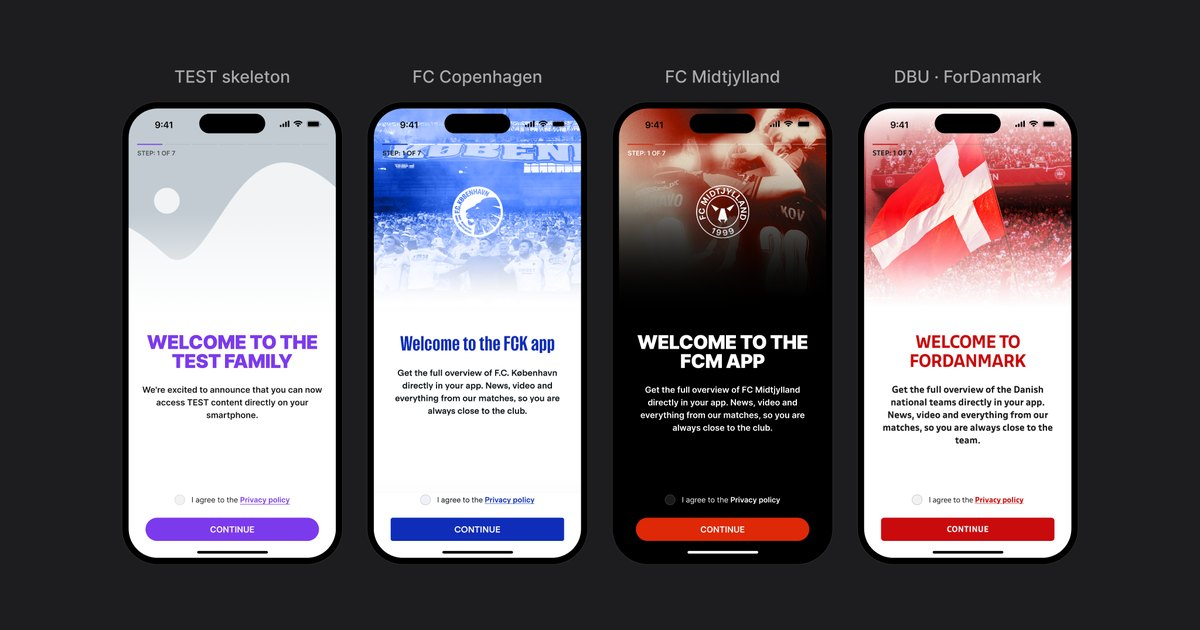
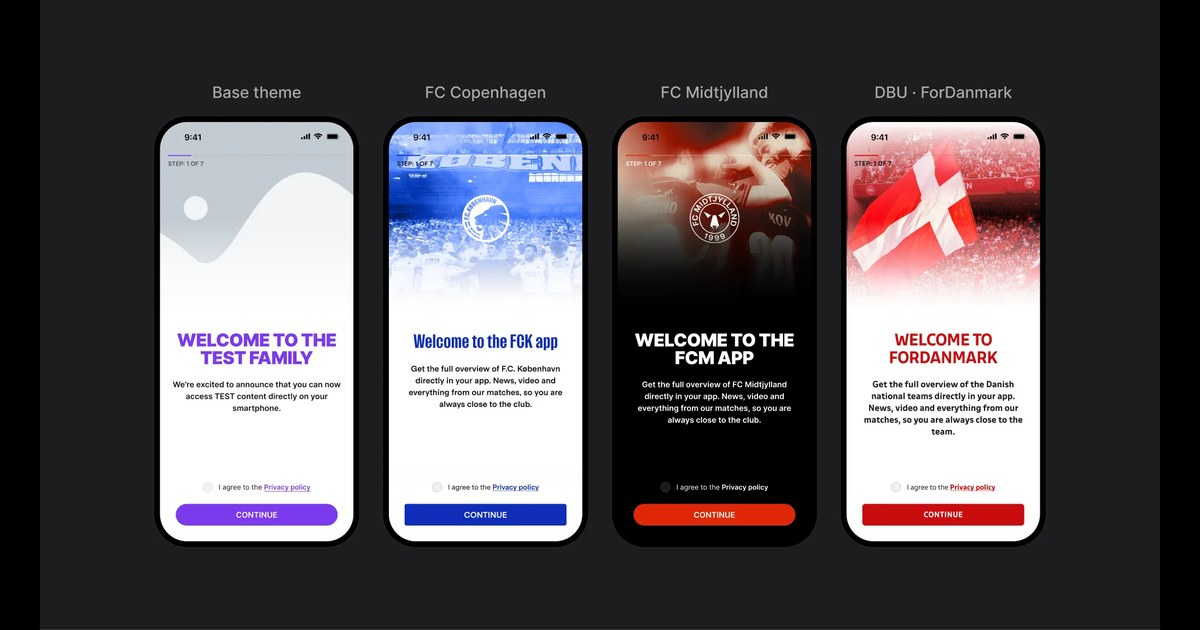
Rename "TEST skeleton" to "base theme" on the site
The owner found "TEST skeleton" unclear and off-putting. Site copy now says
"base theme" (named TEST in the Figma file) on the design-system and
white-label cases, in the theme toy (Base button, tag, aria texts) and in
CASE-TEMPLATE.md. Re-exported the hero, composition 06 and the white-label
base-to-club image with the new labels; og image regenerated.

Claude-Session: https://claude.ai/code/session_01NVvHEzc9sgvxv5K1s7WXs6

diff --git a/design-system.html b/design-system.html
@@ -4,17 +4,17 @@
 <meta charset="utf-8">
 <meta name="viewport" content="width=device-width, initial-scale=1">
 <title>Design system for multi-brand club apps — Voitenko Design</title>
-<meta name="description" content="How we rebuilt a white-label design system on Figma variables: one TEST skeleton, 10+ club themes and a plugin that applies them.">
+<meta name="description" content="How we rebuilt a white-label design system on Figma variables: one base theme, 10+ club themes and a plugin that applies them.">
 <meta property="og:type" content="website">
 <meta property="og:title" content="Design system for multi-brand club apps — Voitenko Design">
-<meta property="og:description" content="How we rebuilt a white-label design system on Figma variables: one TEST skeleton, 10+ club themes and a plugin that applies them.">
+<meta property="og:description" content="How we rebuilt a white-label design system on Figma variables: one base theme, 10+ club themes and a plugin that applies them.">
 <link rel="canonical" href="https://voitenkodesign.com/design-system.html">
 <meta property="og:url" content="https://voitenkodesign.com/design-system.html">
 <meta property="og:site_name" content="Voitenko Design">
 <meta property="og:image" content="https://voitenkodesign.com/img/design-system/og.jpg">
 <meta property="og:image:width" content="1200">
 <meta property="og:image:height" content="630">
-<meta property="og:image:alt" content="The same onboarding screen in the TEST skeleton and three club themes">
+<meta property="og:image:alt" content="The same onboarding screen in the base theme and three club themes">
 <meta name="twitter:card" content="summary_large_image">
 <meta name="color-scheme" content="dark">
 <meta name="theme-color" content="#101010">
@@ -42,10 +42,10 @@
   <header class="case-hero wrap">
     <h1>Design system for multi-brand club apps</h1>
     <dl class="case-facts"><div><dt>Role</dt><dd>UI/UX &amp; Product Designer</dd></div><div><dt>Platform</dt><dd>iOS, Android</dd></div><div><dt>Domain</dt><dd class="seplist"><span class="seplist__items"><span>SportTech</span><span>Design systems</span></span></dd></div><div><dt>Team</dt><dd>2&nbsp;designers, project manager, developers, QA</dd></div></dl>
-    <dl class="case-summary" aria-label="Case at a glance"><div><dt>Problem</dt><dd>The white-label product had to add clubs fast, but each club app was still styled by hand on a half-tokenised library.</dd></div><div><dt>What I did</dt><dd>With a second designer, moved the system to Figma variables: a semantic layer, a theme per club and a plugin that applies it.</dd></div><div><dt>Result</dt><dd>10+&nbsp;club apps on one skeleton. A new club gets a theme — colours, fonts, radii, pictures — not new screens.</dd></div></dl>
+    <dl class="case-summary" aria-label="Case at a glance"><div><dt>Problem</dt><dd>The white-label product had to add clubs fast, but each club app was still styled by hand on a half-tokenised library.</dd></div><div><dt>What I did</dt><dd>With a second designer, moved the system to Figma variables: a semantic layer, a theme per club and a plugin that applies it.</dd></div><div><dt>Result</dt><dd>10+&nbsp;club apps on one base theme. A new club gets a theme — colours, fonts, radii, pictures — not new screens.</dd></div></dl>
   </header>
   <div class="prose wrap">
-<p class="reveal">One TEST skeleton, 10+&nbsp;club themes. The same screen becomes FC&nbsp;Copenhagen, FC&nbsp;Midtjylland or ForDanmark when the plugin applies a club’s variables.</p>
+<p class="reveal">One base theme, 10+&nbsp;club themes. The same screen becomes FC&nbsp;Copenhagen, FC&nbsp;Midtjylland or ForDanmark when the plugin applies a club’s variables.</p>
 <div class="media reveal"><figure class="fig toy" data-toy>
 <div class="toy__card">
   <div class="toy__stage">
@@ -58,16 +58,16 @@
           <img class="toy__shot" data-shot="dbu" src="img/design-system/theme-dbu.webp" alt="" width="786" height="1704" loading="lazy" decoding="async">
           <span class="toy__scan" aria-hidden="true"></span>
         </div>
-        <span class="toy__tag toy__tag--left" aria-hidden="true">TEST</span>
+        <span class="toy__tag toy__tag--left" aria-hidden="true">Base</span>
         <span class="toy__tag toy__tag--right" aria-hidden="true" data-toy-tag>FCK</span>
-        <span class="toy__handle" data-toy-handle tabindex="0" role="slider" aria-label="Compare the TEST skeleton with the club theme" aria-valuemin="0" aria-valuemax="100" aria-valuenow="50" aria-valuetext="Half TEST, half FC Copenhagen"><svg class="toy__grip" viewBox="0 0 24 24" aria-hidden="true" focusable="false"><path d="M9 7 4 12l5 5M15 7l5 5-5 5"/></svg></span>
+        <span class="toy__handle" data-toy-handle tabindex="0" role="slider" aria-label="Compare the base theme with the club theme" aria-valuemin="0" aria-valuemax="100" aria-valuenow="50" aria-valuetext="Half base theme, half FC Copenhagen"><svg class="toy__grip" viewBox="0 0 24 24" aria-hidden="true" focusable="false"><path d="M9 7 4 12l5 5M15 7l5 5-5 5"/></svg></span>
       </div>
     </div>
   </div>
   <div class="toy__panel">
     <p class="toy__name" data-toy-name>FC&nbsp;Copenhagen</p>
     <div class="toy__switch" role="radiogroup" aria-label="Club theme" data-toy-switch>
-      <button type="button" role="radio" aria-checked="false" data-club="test" tabindex="-1"><span class="toy__dot" style="--c: #7C3AED"></span>TEST</button>
+      <button type="button" role="radio" aria-checked="false" data-club="test" tabindex="-1"><span class="toy__dot" style="--c: #7C3AED"></span>Base</button>
       <button type="button" role="radio" aria-checked="true" data-club="fck"><span class="toy__dot" style="--c: #0F2DB9"></span>FCK</button>
       <button type="button" role="radio" aria-checked="false" data-club="fcm" tabindex="-1"><span class="toy__dot" style="--c: #DE2807"></span>FCM</button>
       <button type="button" role="radio" aria-checked="false" data-club="dbu" tabindex="-1"><span class="toy__dot" style="--c: #C90B0E"></span>DBU</button>
@@ -79,7 +79,7 @@
       <div><dt>bgPage</dt><dd><span class="toy__swatch toy__swatch--page" aria-hidden="true"></span><span data-v="page">#FCFCFD</span></dd></div>
       <div><dt>Welcome picture</dt><dd><span data-v="picture">Club photo</span></dd></div>
     </dl>
-    <p class="toy__hint">Pick a club, then drag across the screen to compare it with the TEST skeleton.</p>
+    <p class="toy__hint">Pick a club, then drag across the screen to compare it with the base theme.</p>
     <p class="sr-only" role="status" data-toy-status></p>
   </div>
 </div>
@@ -89,26 +89,26 @@
 <p class="reveal">I joined the white-label team when the product had been live for about two years. Components were built on Figma styles and only about half of the values were tokens, so every new club still meant styling screens by hand.</p>
 <p class="reveal">Over the next two years the second designer and I co-owned the system. We moved it to Figma variables, added a semantic layer and a theme for each club. He built the plugin that applies a theme to a batch of screens; we tested and improved it together. On top of the system I designed club apps and features, and we both added components, marked old ones as legacy and answered developers’ questions.</p>
 <h2 class="reveal">Constraints</h2>
-<ul class="reveal"><li>10+&nbsp;club brands on one skeleton, each with its own colours, fonts, corner radii and pictures</li><li>Some clubs may want a dark theme, so a theme needs room for more than one set of colours</li><li>New clubs join while other club apps are live, so a component can’t simply be deleted</li><li>Developers build from Dev Mode, so names and values in Figma are the handoff</li></ul>
+<ul class="reveal"><li>10+&nbsp;club brands on one base theme, each with its own colours, fonts, corner radii and pictures</li><li>Some clubs may want a dark theme, so a theme needs room for more than one set of colours</li><li>New clubs join while other club apps are live, so a component can’t simply be deleted</li><li>Developers build from Dev Mode, so names and values in Figma are the handoff</li></ul>
 <h2 class="reveal">Process</h2>
 <p class="reveal">We based the colour layer on the Reshaped color system. Names describe a role — bg-primary, fg-neutral, on-bg-primary — and every club fills in the same table. Alpha, beta and gamma are variants a club can use for a dark theme.</p>
-<div class="media reveal"><figure class="fig"><img src="img/design-system/process-semantic-colors.webp" alt="Semantic colour table: token names in rows, club themes TEST, AAB, AB, ACH, B93, BIF, DBU, EFB, FCK, FCM, FTC, KVM, LBK and VFF in columns, with alpha, beta and gamma variants" width="2048" height="1152" loading="lazy" decoding="async"><figcaption>One token name, a value per club</figcaption></figure></div>
+<div class="media reveal"><figure class="fig"><img src="img/design-system/process-semantic-colors.webp" alt="Semantic colour table: token names in rows, club themes TEST (the base theme), AAB, AB, ACH, B93, BIF, DBU, EFB, FCK, FCM, FTC, KVM, LBK and VFF in columns, with alpha, beta and gamma variants" width="2048" height="1152" loading="lazy" decoding="async"><figcaption>One token name, a value per club</figcaption></figure></div>
 <p class="reveal">Type follows the same rule. Every club has the same text styles, from display to textLinkSmall, in its own font.</p>
-<div class="media reveal"><figure class="fig"><img src="img/design-system/process-text-styles.webp" alt="Text styles of TEST, DBU, FC Copenhagen and FC Midtjylland side by side: the same style names in four club fonts" width="2048" height="1152" loading="lazy" decoding="async"><figcaption>Same style names, four club fonts</figcaption></figure></div>
+<div class="media reveal"><figure class="fig"><img src="img/design-system/process-text-styles.webp" alt="Text styles of the base theme, DBU, FC Copenhagen and FC Midtjylland side by side: the same style names in four club fonts" width="2048" height="1152" loading="lazy" decoding="async"><figcaption>Same style names, four club fonts</figcaption></figure></div>
 <h2 class="reveal">Key decisions</h2>
 <h3 class="reveal">Where does a club’s brand live?</h3>
-<p class="reveal">Options: a copy of the library for each club, club colours set by hand on each screen, or one skeleton that asks for semantic tokens. We chose tokens: a component never knows a club’s colour, it asks for bgPrimary or radius/control and the club theme answers. Cost: more time up front on tokens and variables. In return, a new club is a new set of variables, not a recolour of every screen.</p>
-<div class="media reveal"><figure class="fig"><img src="img/design-system/decision-semantic-layer.webp" alt="Three options labelled A, B and C, with C, one skeleton with semantic tokens per club, marked as chosen. Next to them a button, its tokens bgPrimary, onBgPrimary and radius/control, and their values in TEST, FC Copenhagen, FC Midtjylland and DBU" width="2048" height="1152" loading="lazy" decoding="async"><figcaption>A component asks for a role, the theme answers</figcaption></figure></div>
+<p class="reveal">Options: a copy of the library for each club, club colours set by hand on each screen, or one base theme that asks for semantic tokens. We chose tokens: a component never knows a club’s colour, it asks for bgPrimary or radius/control and the club theme answers. Cost: more time up front on tokens and variables. In return, a new club is a new set of variables, not a recolour of every screen.</p>
+<div class="media reveal"><figure class="fig"><img src="img/design-system/decision-semantic-layer.webp" alt="Three options labelled A, B and C, with C, one base theme with semantic tokens per club, marked as chosen. Next to them a button, its tokens bgPrimary, onBgPrimary and radius/control, and their values in the base theme, FC Copenhagen, FC Midtjylland and DBU" width="2048" height="1152" loading="lazy" decoding="async"><figcaption>A component asks for a role, the theme answers</figcaption></figure></div>
 <h3 class="reveal">What happens to a component we replace?</h3>
 <p class="reveal">Options: delete it, or keep it under a _LEGACY name that points to the new one. We kept it: club apps were live, and a deleted component breaks screens nobody is looking at. The name tells the next designer what to use instead. Cost: we didn’t always find time to swap every instance, so some legacy parts stayed in the file.</p>
 <div class="media reveal"><figure class="fig"><img src="img/design-system/decision-legacy.webp" alt="Before: three states of the old match header, named _MatchHeaderLEGACY (Use MatchCard component). After: four variants of the new MatchCard" width="2048" height="1152" loading="lazy" decoding="async"><figcaption>The old header names its replacement</figcaption></figure></div>
-<h2 class="reveal">One skeleton, a theme per club</h2>
-<p class="reveal">Every feature is designed once, in the neutral TEST theme. A club theme is a group of variables and styles with the same names: colours, corner radii, fonts, shadows and pictures. The plugin swaps the TEST group for the club’s group across a batch of screens.</p>
+<h2 class="reveal">One base theme, a theme per club</h2>
+<p class="reveal">Every feature is designed once, in the neutral base theme, named TEST in the file. A club theme is a group of variables and styles with the same names: colours, corner radii, fonts, shadows and pictures. The plugin swaps the base group for the club’s group across a batch of screens.</p>
 <p class="reveal">Pictures were our own find. Logos, onboarding photos, stories and article images are named per club too, so the plugin changes them along with the colours.</p>
-<div class="media reveal"><figure class="fig"><img src="img/design-system/skeleton-pictures.webp" alt="TEST onboarding screen next to the FC Midtjylland one, with the colour, corner radius, text style and picture names that the plugin swaps listed between them" width="2048" height="1152" loading="lazy" decoding="async"><figcaption>Four names change, the layout stays</figcaption></figure></div>
+<div class="media reveal"><figure class="fig"><img src="img/design-system/skeleton-pictures.webp" alt="Base theme onboarding screen next to the FC Midtjylland one, with the colour, corner radius, text style and picture names that the plugin swaps listed between them" width="2048" height="1152" loading="lazy" decoding="async"><figcaption>Four names change, the layout stays</figcaption></figure></div>
 <h2 class="reveal">Components that hold up in every club</h2>
 <p class="reveal">The file holds around 1,000 components and variants. They use tokens only, so each one looks right in any club theme.</p>
-<div class="media reveal"><figure class="fig"><img src="img/design-system/components-buttons.webp" alt="The full button set in the TEST theme, and the same buttons in four club themes: purple, red, navy and yellow on navy" width="2048" height="1152" loading="lazy" decoding="async"><figcaption>Every button style, then four club themes</figcaption></figure></div>
+<div class="media reveal"><figure class="fig"><img src="img/design-system/components-buttons.webp" alt="The full button set in the base theme, and the same buttons in four club themes: purple, red, navy and yellow on navy" width="2048" height="1152" loading="lazy" decoding="async"><figcaption>Every button style, then four club themes</figcaption></figure></div>
 <p class="reveal">Figma had no real slots, so a section is a reusable block with a slot inside. Content changes without detaching anything.</p>
 <div class="media reveal"><figure class="fig"><img src="img/design-system/component-slot.webp" alt="Section component with a header, an empty slot and a button, next to the same section filled with video cards and a sponsored story card" width="2048" height="1152" loading="lazy" decoding="async"><figcaption>A section with a slot, and what fills it</figcaption></figure></div>
 <p class="reveal">Screens are assembled from these parts, not drawn.</p>
@@ -121,7 +121,7 @@
 <div class="media reveal"><figure class="fig"><img src="img/design-system/support-notes.webp" alt="Notes from the Figma file: add each club logo to Figma Styles, use fake black #010101 because React Native does not read “black” in SVGs, Android notification logos must be white, and the sponsor logo requirements" width="2048" height="1152" loading="lazy" decoding="async"><figcaption>Notes from the file, word for word</figcaption></figure></div>
 <p class="reveal">Changes reached developers through a changelog, calls and Slack. They built from Dev Mode and asked us when something was unclear.</p>
 <h2 class="reveal">Result</h2>
-<div class="stats reveal"><p class="stats__kicker"><strong>Platform results.</strong> Product numbers, not personal ones.</p><div class="stats__grid"><div class="stat"><p class="stat__value">10+</p><p class="stat__label">club apps on one skeleton</p></div><div class="stat"><p class="stat__value">~1,000</p><p class="stat__label">components and variants in the system</p></div><div class="stat"><p class="stat__value">+50%</p><p class="stat__label">more active fans</p></div><div class="stat"><p class="stat__value">1.2M</p><p class="stat__label">app sessions a month</p></div></div></div>
+<div class="stats reveal"><p class="stats__kicker"><strong>Platform results.</strong> Product numbers, not personal ones.</p><div class="stats__grid"><div class="stat"><p class="stat__value">10+</p><p class="stat__label">club apps on one base theme</p></div><div class="stat"><p class="stat__value">~1,000</p><p class="stat__label">components and variants in the system</p></div><div class="stat"><p class="stat__value">+50%</p><p class="stat__label">more active fans</p></div><div class="stat"><p class="stat__value">1.2M</p><p class="stat__label">app sessions a month</p></div></div></div>
 <p class="reveal">Source: <a href="https://www.sportsinnovation.dk/" target="_blank" rel="noopener">Sports Innovation</a>. My part was the system these apps run on, co-owned with the second designer.</p>
 <h2 class="reveal">What I learned</h2>
 <ul class="reveal"><li>Name tokens by role, not by colour. A new club then fills in a table instead of redrawing screens.</li><li>Pictures are part of the brand too. Once logos, stories and article images were named per club, the plugin could switch a whole screen, not just its colours.</li><li>Developers read the system in Dev Mode, so layer and token names are the handoff. A sloppy name is a bug.</li></ul>

diff --git a/white-label-app.html b/white-label-app.html
@@ -65,9 +65,9 @@
 <h3 class="reveal">Actions that can’t be undone need a swipe</h3>
 <p class="reveal">A transfer or a release can’t be taken back, and on match day people use the app in a crowd. So both are confirmed with a swipe, not a tap, and the screen spells out the match, the seat and what the fan gives up. Cost: one extra gesture, only where a mistake is expensive.</p>
 <div class="media reveal"><figure class="fig"><img src="img/white-label-app/decision-swipe.webp" alt="Confirm transfer and confirm release screens, each with the match, the seat and a slide-to-confirm control" width="2048" height="1153" loading="lazy" decoding="async"><figcaption>Swipe for what can’t be undone</figcaption></figure></div>
-<h2 class="reveal">One skeleton, many clubs</h2>
-<p class="reveal">Every feature is designed once, in a neutral TEST theme. Each club has its own set of Figma variables: colours, fonts and imagery. A plugin applies a club’s set to a batch of screens, so a new club app starts from finished flows, not from a blank page.</p>
-<div class="media reveal"><figure class="fig"><img src="img/white-label-app/skeleton-to-club.webp" alt="The live-match home screen in the grey TEST skeleton next to the same screen with FC Midtjylland variables" width="2048" height="1153" loading="lazy" decoding="async"><figcaption>The TEST skeleton and the same screen with FC&nbsp;Midtjylland variables</figcaption></figure></div>
+<h2 class="reveal">One base theme, many clubs</h2>
+<p class="reveal">Every feature is designed once, in a neutral base theme. Each club has its own set of Figma variables: colours, fonts and imagery. A plugin applies a club’s set to a batch of screens, so a new club app starts from finished flows, not from a blank page.</p>
+<div class="media reveal"><figure class="fig"><img src="img/white-label-app/skeleton-to-club.webp" alt="The live-match home screen in the grey base theme next to the same screen with FC Midtjylland variables" width="2048" height="1152" loading="lazy" decoding="async"><figcaption>The base theme and the same screen with FC&nbsp;Midtjylland variables</figcaption></figure></div>
 <p class="reveal">The system itself is a separate case: <a href="design-system.html">Design system for multi-brand club apps</a>.</p>
 <h2 class="reveal">A home screen that follows the match</h2>
 <p class="reveal">The first screen changes with the match. Before kick-off it sells tickets and asks for a score prediction. During the match it leads with the live score. After the final whistle it moves to highlights.</p>

diff --git a/motion.js b/motion.js
@@ -128,8 +128,8 @@
   document.documentElement.classList.add('js');
 })();
 
-// Theme toy on the design-system case: pick a club theme and drag the split to compare it with the TEST
-// skeleton. Values are the real club variables from the Figma file. Starts a short demo when it comes into
+// Theme toy on the design-system case: pick a club theme and drag the split to compare it with the base
+// theme. Values are the real club variables from the Figma file. Starts a short demo when it comes into
 // view and stops for good at the first touch, click or key. Reduced motion: no demo, no wipe.
 (function () {
   var toy = document.querySelector('[data-toy]');
@@ -141,7 +141,7 @@
   var scan = toy.querySelector('.toy__scan');
   var reduce = window.matchMedia && window.matchMedia('(prefers-reduced-motion: reduce)').matches;
   var CLUBS = {
-    test: { name: 'TEST skeleton', tag: 'TEST', primary: '#7C3AED', radius: 9999, font: 'Inter Black', page: '#FFFFFF', picture: 'Grey placeholder' },
+    test: { name: 'Base theme', tag: 'Base', primary: '#7C3AED', radius: 9999, font: 'Inter Black', page: '#FFFFFF', picture: 'Grey placeholder' },
     fck:  { name: 'FC Copenhagen', tag: 'FCK', primary: '#0F2DB9', radius: 4, font: 'FCK Sans Bold', page: '#FCFCFD', picture: 'Club photo' },
     fcm:  { name: 'FC Midtjylland', tag: 'FCM', primary: '#DE2807', radius: 9999, font: 'FCM Rialta Bold', page: '#000000', picture: 'Club photo' },
     dbu:  { name: 'DBU · ForDanmark', tag: 'DBU', primary: '#C90B0E', radius: 6, font: 'DBU Bold', page: '#FFFFFF', picture: 'Club photo' }
@@ -156,7 +156,7 @@
     screen.classList.toggle('is-edge', split < 1.5 || split > 98.5);
     var c = CLUBS[current], t = Math.round(split);
     handle.setAttribute('aria-valuenow', t);
-    handle.setAttribute('aria-valuetext', t + '% TEST, ' + (100 - t) + '% ' + c.name.replace(' ', ' '));
+    handle.setAttribute('aria-valuetext', t + '% base theme, ' + (100 - t) + '% ' + c.name.replace(' ', ' '));
   }
 
   function setValue(key, text, delay) {

diff --git a/CASE-TEMPLATE.md b/CASE-TEMPLATE.md
@@ -144,6 +144,7 @@ Export: `cwebp` settings and folders exactly as in `CLAUDE.md` §6.2.
 - One idea per paragraph, 1–3 sentences. Plain words; no "seamless", "intuitive", "delightful", "leverage".
 - Every constraint must be answered later. If it isn’t, cut the constraint.
 - Lessons are specific: "Provider rules decide the UX — Eventii forced an email path", not "Simplicity matters".
+- The neutral theme every feature is designed in is the **base theme** on the site (it is the `TEST` group in Figma). Never "TEST skeleton" or "skeleton" in site copy; token names like `_TEST/alpha/color/bgPrimary` and Figma page names stay as they are.
 
 ---
 
@@ -214,7 +215,7 @@ Figma file `hML2htcfzwCFXafq3E0sh9`. Work page for exports: **White label case**
 | 5 | Constraints | Many club brands on one codebase · home and crowded stadium · two ticket providers with different rules · two ways to log in per club: the club profile or LigaLogin (an external league-wide login) · up to 40% of season-card holders need to release or transfer a ticket for each match | Sticky note in TEST › Wallet (`17844:178181`); TEST › Login `17844:179120` |
 | 6 | Process | (a) FCK UX board levels: business → journeys → content → wireframes; (b) Brøndby benchmark of buy-ticket journeys (Juventus, Barcelona, Man City, Inter); (c) wallet shaped by fan type: season card / ticket subscription / has tickets / no ticket — **one** clean crop of the Shaping board replaces `ticket-share-flow` and `transfer-ticket-to-a-friend` | FigJam `KSFzlijPDMJtDc035Ua41p`, `VNt8cCz6baXuH8rKVNbcli`, `ZZtOCbpzpy4a9sbOsMvJp9` — crops only |
 | 7 | Key decisions | (1) Confirm a transfer or release with a swipe, not a button. (2) Optional: match header style 1 vs 2. Login is **not** a decision — both options ship; it stays a constraint | TEST › Wallet confirm screens; TEST › Match center `17986:297228` |
-| 8a | Solution: **One skeleton, many clubs** | TEST screen → same screen with FCM variables; one line on variables (TEST group → club group, ~14 club sets) and the switching plugin; link to the Design system case | TEST Home `17844:179121` vs FCM Home `37094:56357`; Variables page `91:4447` |
+| 8a | Solution: **One base theme, many clubs** | Base theme screen → same screen with FCM variables; one line on variables (base group → club group, ~14 club sets) and the switching plugin; link to the Design system case | TEST Home `17844:179121` vs FCM Home `37094:56357`; Variables page `91:4447` |
 | 8b | Solution: **A home that changes with the match** | Pre-match / live / post-match home in one club (FCM) | FCM › Home section |
 | 8c | Solution: **Ticketing: two providers, many states** | Wallet (missing connection → tickets → season card) · Transfer strip (allow contacts → pick → confirm → done) · **Release (confirm → released) — new** · Eventii path (email → account notice) | Existing images + Release `17979:141449`, `17979:140905` (export from FCK page, not TEST) |
 | 9 | States | Transfer error toast, inbox empty, first-time QR hint, error screen | Existing `error-transferring.webp`; TEST › Inbox `17998:532074`; Wallet first-time hint `37627:162987`; TEST › Error |
